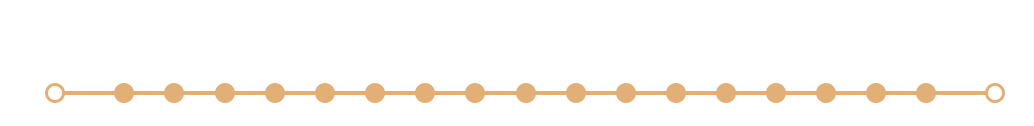
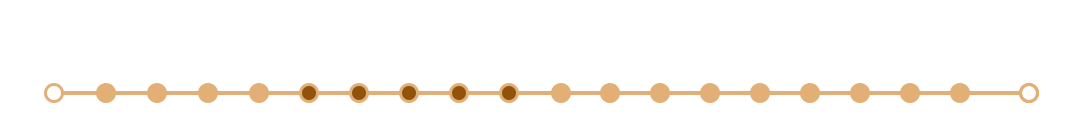
Continuatino of plotting waypoints. Made waypoints images. Added graphics for route pages.

Changed region(s): [[0.0928, 0.6429, 0.9903, 0.8333], [0.0309, 0.6429, 0.0619, 0.8333]]

diff --git a/includes/route-map-code.php b/includes/route-map-code.php
@@ -5,7 +5,8 @@
 
 
 
-function placeRouteMapMarkers($routeId, $DB_SERVER, $DB_USERNAME, $DB_PASSWORD, $DB_DATABASE) {
+function placeRouteMapMarkers($routeId, $DB_SERVER, $DB_USERNAME, $DB_PASSWORD, $DB_DATABASE)
+{
     global $baseURL;
     $results = getRouteMapMarkers($routeId, $DB_SERVER, $DB_USERNAME, $DB_PASSWORD, $DB_DATABASE);
     //$numRows =  mysqli_num_rows($results);
@@ -52,13 +53,11 @@ function placeRouteMapMarkers($routeId, $DB_SERVER, $DB_USERNAME, $DB_PASSWORD, 
                 $markerJS .= ',';
             }
             $markerJS .= "\r\n";
-
         }
         $markerJS .= '];';
         $markerJS .= "\r\n";
         $markerJS .= "\r\n";
     }
-
     echo $markerJS;
 }
 
@@ -118,7 +117,7 @@ function initialize() {
     drawRouteInfoBubbles($coordsJson, $routeId);
     setMapRoutes($coordsJson, $routeId);
 
-    drawWaypoints($coordsJson, $routeId);
+    prepWaypoints($coordsJson, $routeId);
 
     placeRouteMapMarkers($routeId, $DB_SERVER, $DB_USERNAME, $DB_PASSWORD, $DB_DATABASE);
 
@@ -153,8 +152,6 @@ function initialize() {
                 break;
             }
         }
-
-
         echo $coordsJS;
     }
 
@@ -185,14 +182,17 @@ function initialize() {
         echo $coordsJS;
     }
 
-    function drawWaypoints($coordsJson, $routeId)
+    function prepWaypoints($coordsJson, $routeId)
     {
+        global $baseURL;
         $wayPointsArray = array();
-        $coordsJS = '';
-        $coordsJS .= 'var wayPoints = {};';
-        $coordsJS .= "\r\n";
+        $waypointJS = '';
+        $waypointJS .= 'var wayPoints = {};';
+        $waypointJS .= "\r\n";
         $count = 0;
+        $iconBase = $baseURL . '/img/routes/';
 
+        //build wayPoints obj
         foreach ($coordsJson['routes'] as $route)
         {
             if ($route['id'] == $routeId)
@@ -206,6 +206,8 @@ function initialize() {
                     {
                         $coords['colour'] = $route['colour'];
                         $coords['sub_colour'] = $route['sub_colour'];
+                        $coords['class'] = $route['class'];
+                        $coords['route_name'] = $route['title'];
                         array_push($wayPointsArray, $coords);
                     }
                 }
@@ -214,78 +216,42 @@ function initialize() {
             }
         }
 
-
-
         foreach ($wayPointsArray as $wayPoint)
         {
-            $coordsJS .= 'wayPoints["waypoint-'.$count.'"] = {';
-            $coordsJS .= "\r\n";
-            $coordsJS .= 'center: new google.maps.LatLng('.$wayPoint['lat'].','.$wayPoint['lng'].'),';
-            $coordsJS .= "\r\n";
+            $waypointJS .= 'wayPoints["waypoint-'.$count.'"] = {';
+            $waypointJS .= "\r\n";
+            $waypointJS .= 'center: new google.maps.LatLng('.$wayPoint['lat'].','.$wayPoint['lng'].'),';
+            $waypointJS .= "\r\n";
             if ($wayPoint['is_destination'] == 1)
             {
-                $coordsJS .= 'opacity: 0,';
+                $waypointJS .= 'icon: "' . $iconBase . $wayPoint['class'] . 'Destination.png",';
             }
             else
             {
-                $coordsJS .= 'opacity: 1,';
+                if ($wayPoint['is_sub_route'] == 1)
+                {
+                    $waypointJS .= 'icon: "' . $iconBase . $wayPoint['class'] . 'SubWaypoint.png",';
+                }
+                else
+                {
+                    $waypointJS .= 'icon: "' . $iconBase . $wayPoint['class'] . 'Waypoint.png",';
+                }
             }
-            $coordsJS .= "\r\n";
-            if ($wayPoint['is_sub_route'] == 1 && strlen($wayPoint['sub_colour']) > 0)
-            {
-                $coordsJS .= 'fill_color: "'.$wayPoint['sub_colour'].'",';
-            }
-            else
-            {
-                $coordsJS .= 'fill_color: "'.$wayPoint['colour'].'",';
-            }
-            $coordsJS .= "\r\n";
-            $coordsJS .= 'stroke_color: "'.$wayPoint['colour'].'",';
-            $coordsJS .= "\r\n";
-            $coordsJS .= 'label: "'.$wayPoint['label'].'"';
-            $coordsJS .= "\r\n";
-            $coordsJS .= '};';
-            $coordsJS .= "\r\n";
+            $waypointJS .= "\r\n";
+            $waypointJS .= 'route_name: "'.$wayPoint['route_name'].'",';
+            $waypointJS .= "\r\n";
+            $waypointJS .= 'label: "'.$wayPoint['label'].'"';
+            $waypointJS .= "\r\n";
+            $waypointJS .= '};';
+            $waypointJS .= "\r\n";
             $count++;
         }
-
-        $coordsJS .= 'var stopCircle;';
-        $coordsJS .= "\r\n";
-
-        $coordsJS .= 'for (var point in wayPoints) {';
-        $coordsJS .= "\r\n";
-        $coordsJS .= 'var wayPointOptions = {';
-        $coordsJS .= "\r\n";
-        $coordsJS .= 'strokeColor: wayPoints[point].stroke_color,';
-        $coordsJS .= "\r\n";
-        $coordsJS .= 'strokeOpacity: 1,';
-        $coordsJS .= "\r\n";
-        $coordsJS .= 'strokeWeight: 4,';
-        $coordsJS .= "\r\n";
-        $coordsJS .= 'fillColor: wayPoints[point].fill_color,';
-        //$coordsJS .= 'fillColor: "#ffffff",';
-        $coordsJS .= "\r\n";
-        $coordsJS .= 'fillOpacity: wayPoints[point].opacity,';
-        $coordsJS .= "\r\n";
-        $coordsJS .= 'map: map,';
-        $coordsJS .= "\r\n";
-        $coordsJS .= 'center: wayPoints[point].center,';
-        $coordsJS .= "\r\n";
-        $coordsJS .= 'radius: 180';
-        $coordsJS .= "\r\n";
-        $coordsJS .= '};';
-        $coordsJS .= "\r\n";
-        $coordsJS .= 'stopCircle = new google.maps.Circle(wayPointOptions);';
-        $coordsJS .= "\r\n";
-        $coordsJS .= 'stopCircle.setMap(map);';
-        $coordsJS .= "\r\n";
-        $coordsJS .= '}';
-        $coordsJS .= "\r\n";
-
-        //$coordsJS .= 'console.dir(wayPoints)';
-        $coordsJS .= "\r\n";
-        echo $coordsJS;
+        $waypointJS .= "\r\n";
+        echo $waypointJS;
     }
+
+
+
 
     function drawRouteInfoBubbles($coordsJson, $routeId){
     global $baseURL;
@@ -493,12 +459,10 @@ function initialize() {
     map.mapTypes.set('map_style', styledMap);
     map.setMapTypeId('map_style');
 
-
-
-
-
     var markerArray= [];
     showLocations(markerLocations);
+
+    showWayPoints(wayPoints);
 
     //console.dir(markerArray);
 
@@ -525,6 +489,24 @@ function initialize() {
         }
     });
 
+    function showWayPoints(wayPoints)
+    {
+        for (var waypoint in wayPoints)
+        {
+            var image = {
+                url: wayPoints[waypoint].icon,
+                anchor: new google.maps.Point(10, 10)
+            }
+            var marker = new google.maps.Marker({
+                position: wayPoints[waypoint].center,
+                icon: image,
+                map: map,
+                route: wayPoints[waypoint].route_name
+            });
+        }
+    }
+
+
     function showLocations(locations)
     {
         for (var i=0; i<locations.length;i++)
@@ -541,8 +523,6 @@ function initialize() {
                 //console.dir(marker);
                 //console.log('marker-'+i);
                 markerArray.push(marker);
-
-
 
                 var locationContent = '';
                 locationContent += '<div class="imgHolder" data-category="'+location.category+'">';
@@ -583,7 +563,6 @@ function initialize() {
                 {
                     $('.panelFlyoutTrigger').on('click', function(e) {
                         e.preventDefault();
-                        //console.log('here');
                         var target = $('#'+$(this).attr('data-target'));
                         var id = $(this).attr('data-location');
 
@@ -605,7 +584,7 @@ function initialize() {
                         panelFlyout += '<div id="flyoutPanel" class="panelFlyout  large-12 columns left">';
                         panelFlyout += '<div class="large-12 columns standardDarkGrey">';
                         panelFlyout += '<div id="flyoutCanvas" class="paddingTopBottom20 left"></div>';
-                        panelFlyout += '<h4 class="left loading">Loading...</h4>';
+                        panelFlyout += '<h4 class="left loading">Loading map...</h4>';
                         panelFlyout += '<div class="left"></div>';
                         panelFlyout += '</div>';
                         panelFlyout += '</div>';
@@ -626,8 +605,6 @@ function initialize() {
                         },'slow');
                     }
 
-
-
                     function locationRetrieveErrorHandler(target) {
                         var locationHTML = '';
                         var closeHTML = '<a href="#" class="flyoutPanelClose">Close panel</a>';
@@ -637,9 +614,6 @@ function initialize() {
                         locationHTML += '</div>';
                         $('#flyoutPanel').html(locationHTML);
                     }
-
-
-
                 });
             }(locations[i]));
         }
